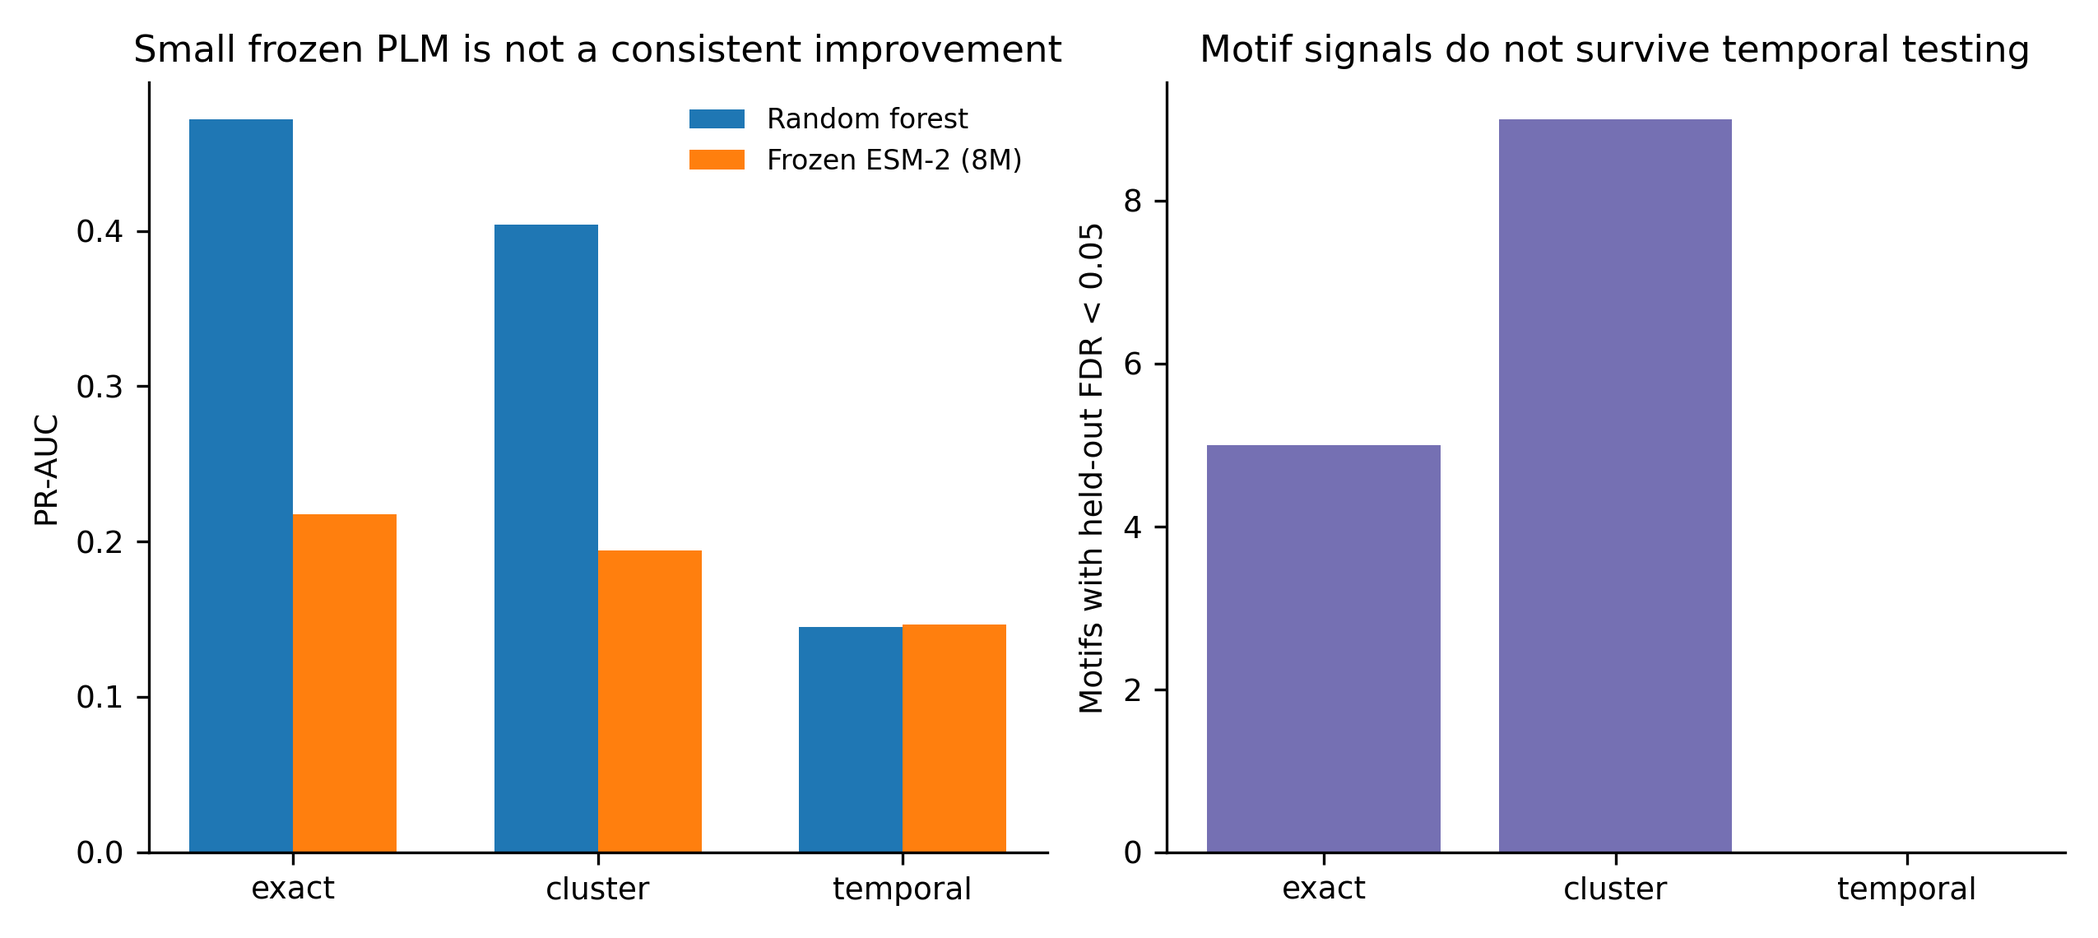
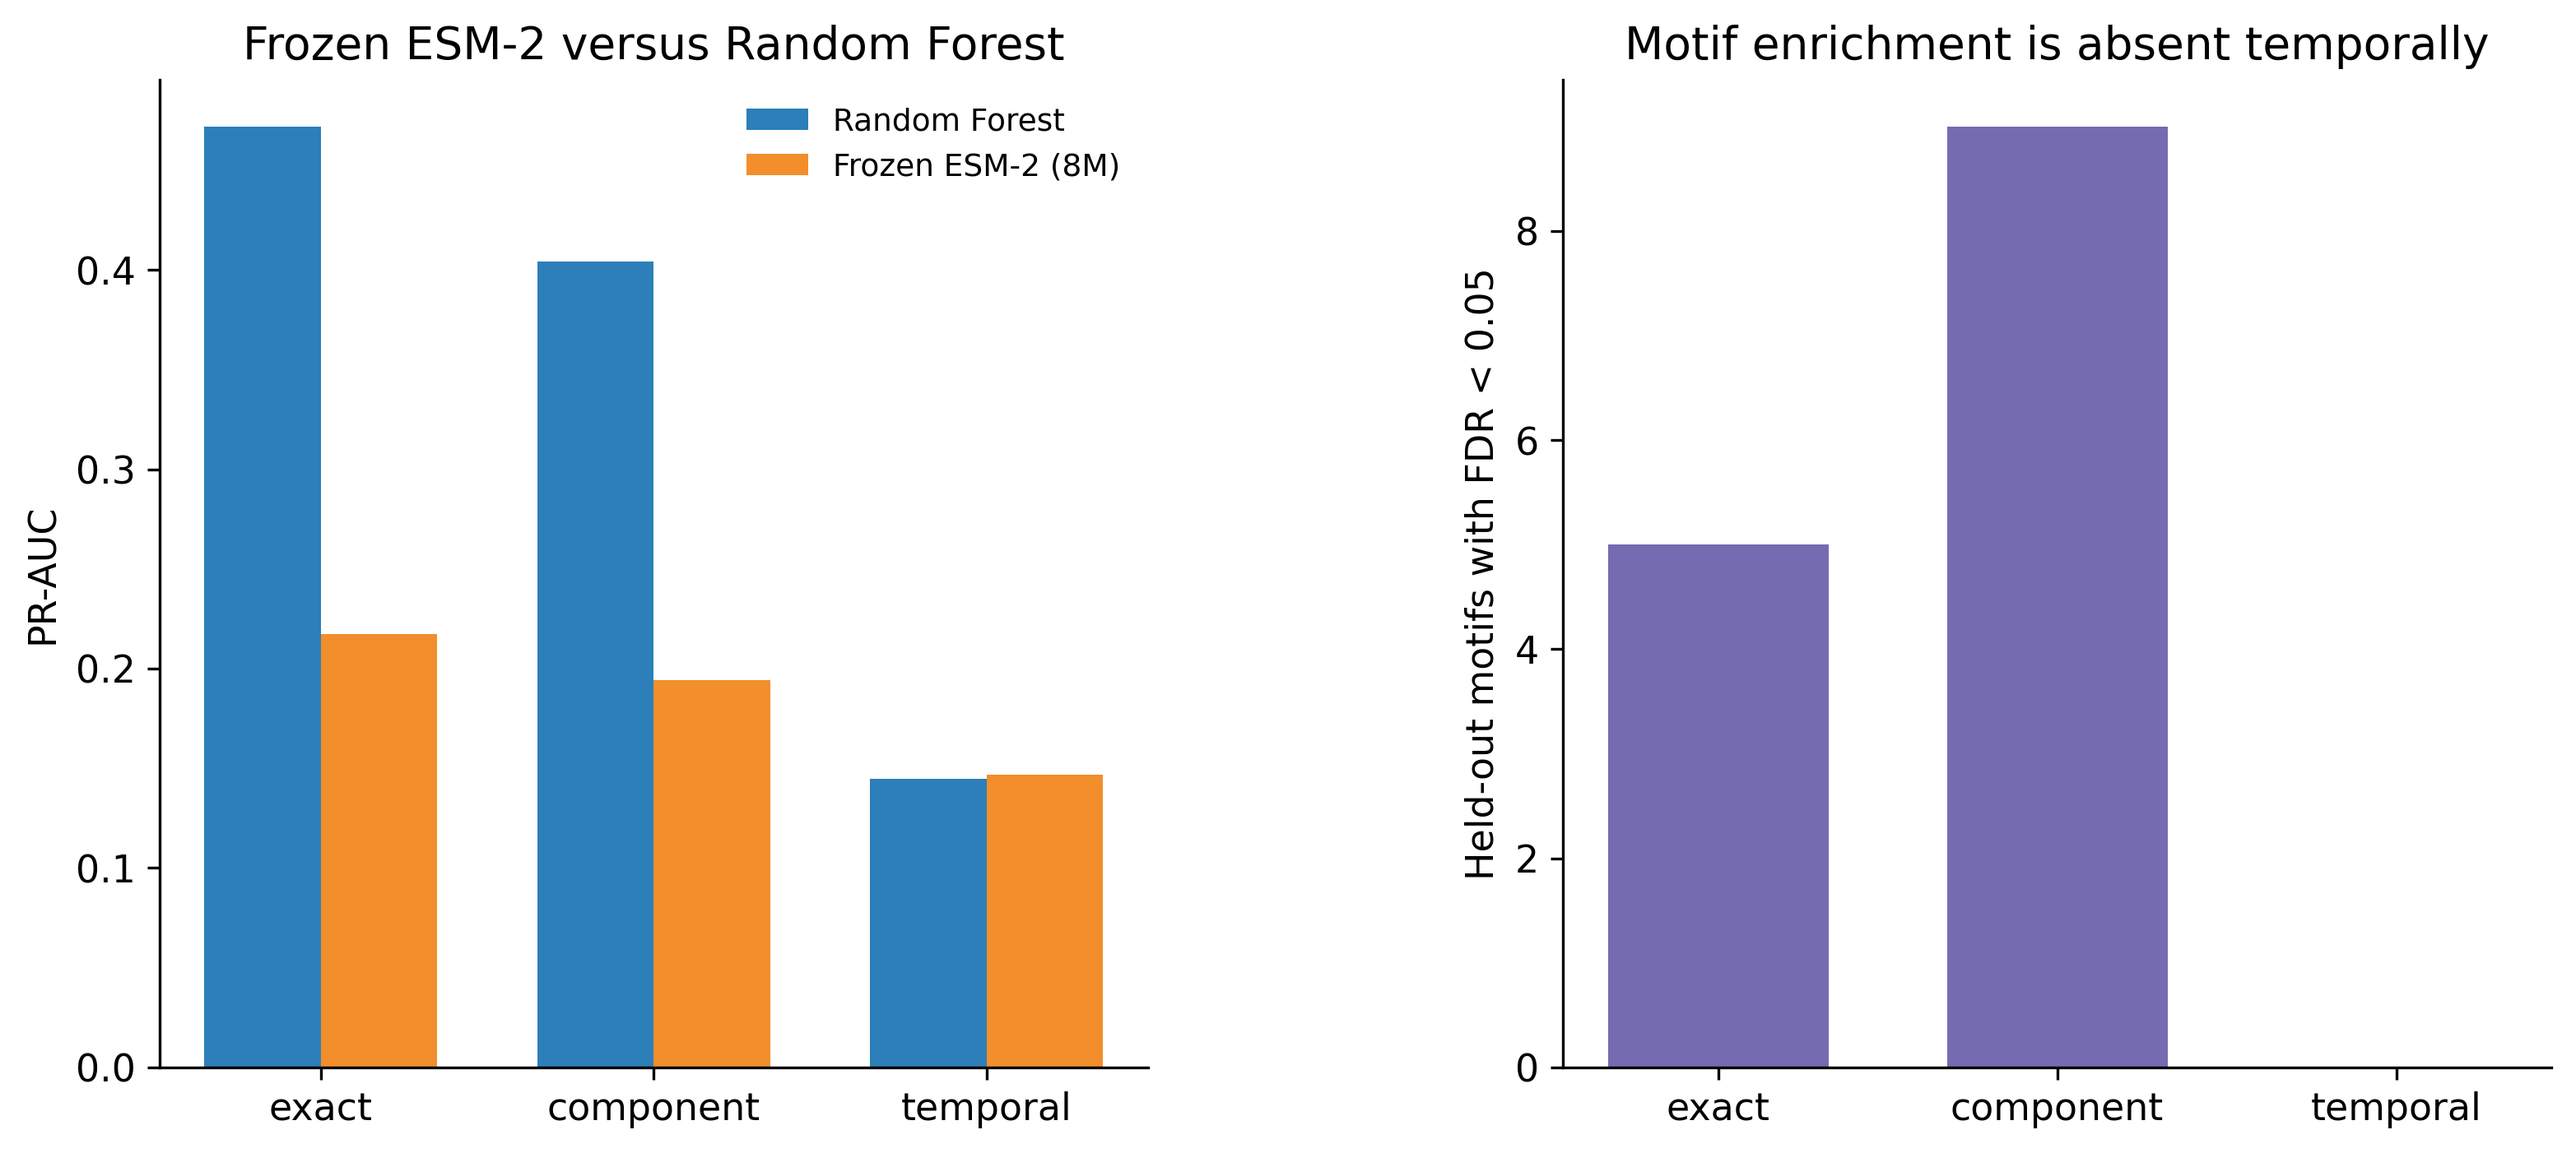
Finalize v5 submission graphics and quality review

diff --git a/revision/scripts/16_rebuild_submission_graphics.py b/revision/scripts/16_rebuild_submission_graphics.py
@@ -1,0 +1,74 @@
+from pathlib import Path
+
+import matplotlib.pyplot as plt
+import numpy as np
+import pandas as pd
+from matplotlib.patches import FancyBboxPatch
+
+ROOT = Path(__file__).resolve().parents[1]
+TABLES = ROOT / "results" / "publication" / "tables"
+FIGURES = ROOT / "results" / "publication" / "figures"
+SUBMISSION = FIGURES
+FIGURES.mkdir(parents=True, exist_ok=True)
+SUBMISSION.mkdir(parents=True, exist_ok=True)
+
+plt.rcParams.update({"font.family": "DejaVu Sans", "font.size": 11})
+
+# Corrected Figure 4: the classical comparator is explicitly Random Forest.
+esm = pd.read_csv(TABLES / "table_05_esm2_comparison.csv").set_index("split").loc[["exact", "cluster", "temporal"]]
+motif = pd.read_csv(TABLES / "table_05b_motif_summary.csv").set_index("split").loc[["exact", "cluster", "temporal"]]
+x = np.arange(3)
+fig, axs = plt.subplots(1, 2, figsize=(12.5, 5.2), gridspec_kw={"wspace": 0.42})
+w = 0.35
+axs[0].bar(x - w / 2, esm["rf_pr_auc"], w, label="Random Forest", color="#2C7FB8")
+axs[0].bar(x + w / 2, esm["esm2_frozen_pr_auc"], w, label="Frozen ESM-2 (8M)", color="#F28E2B")
+axs[0].set_xticks(x, ["exact", "component", "temporal"])
+axs[0].set_ylabel("PR-AUC")
+axs[0].set_title("Frozen ESM-2 versus Random Forest")
+axs[0].legend(frameon=False, fontsize=9)
+axs[0].spines[["top", "right"]].set_visible(False)
+axs[1].bar(x, motif["heldout_fdr_below_0_05"], color="#756BB1", width=0.65)
+axs[1].set_xticks(x, ["exact", "component", "temporal"])
+axs[1].set_ylabel("Held-out motifs with FDR < 0.05")
+axs[1].set_title("Motif enrichment is absent temporally")
+axs[1].spines[["top", "right"]].set_visible(False)
+fig.savefig(FIGURES / "figure_04_esm2_motifs.png", dpi=300, bbox_inches="tight")
+fig.savefig(SUBMISSION / "figure_04_esm2_motifs.png", dpi=300, bbox_inches="tight")
+plt.close(fig)
+
+# Text-exact graphical abstract built as a native scientific diagram.
+fig, ax = plt.subplots(figsize=(16, 9))
+ax.set_xlim(0, 16); ax.set_ylim(0, 9); ax.axis("off")
+ax.text(8, 8.35, "Leakage-aware benchmarking of viral T-cell IFN-gamma assay outcomes",
+        ha="center", va="center", fontsize=23, fontweight="bold", color="#173F5F")
+
+def box(x0, y0, width, height, title, body, color):
+    patch = FancyBboxPatch((x0, y0), width, height, boxstyle="round,pad=0.03,rounding_size=0.18",
+                           linewidth=1.4, edgecolor="#34495E", facecolor=color)
+    ax.add_patch(patch)
+    ax.text(x0 + 0.28, y0 + height - 0.30, title, ha="left", va="top", fontsize=14.5, fontweight="bold")
+    ax.text(x0 + 0.28, y0 + height - 0.94, body, ha="left", va="top", fontsize=10.7, linespacing=1.30)
+
+box(0.65, 4.75, 7.05, 2.45, "1  Recovered IEDB analysis state",
+    "31,502 assay records; 17,336 unique peptides\n"
+    "Original 161-column export unavailable\n"
+    "Analysis begins from recovered curated tables", "#DCEAF7")
+box(8.30, 4.75, 7.05, 2.45, "2  Leakage-aware sequence benchmark",
+    "9,668 valid high-confidence peptides; 9.2% positive\n"
+    "PR-AUC: 0.479 exact | 0.404 component | 0.151 temporal\n"
+    "Validation design strongly changes apparent performance", "#E4F2DE")
+box(0.65, 1.55, 7.05, 2.45, "3  Separate peptide-context task",
+    "20,785 peptide-context rows\n"
+    "Safe-context uplift: +0.236 exact | +0.254 component\n"
+    "+0.047 temporal; persisted across three label constructions", "#FFF0C9")
+box(8.30, 1.55, 7.05, 2.45, "4  Cautious interpretation",
+    "Context associations are not causal; task PR-AUCs are not comparable\n"
+    "No external dataset; temporal test not component-purged\n"
+    "Small frozen ESM-2; missing raw export and HLA restriction\n"
+    "Independent experimental validation is required", "#E9DFF2")
+ax.annotate("", xy=(8.18, 5.97), xytext=(7.82, 5.97), arrowprops=dict(arrowstyle="-|>", lw=2, color="#173F5F"))
+ax.annotate("", xy=(8.18, 2.77), xytext=(7.82, 2.77), arrowprops=dict(arrowstyle="-|>", lw=2, color="#173F5F"))
+fig.savefig(SUBMISSION / "graphical_abstract_v5.png", dpi=200, bbox_inches="tight", facecolor="white")
+plt.close(fig)
+
+print("Wrote corrected Figure 4 and graphical abstract")

diff --git a/revision/governance/QUALITY_REVIEW_V5_RELEASE_2026-08-10.md b/revision/governance/QUALITY_REVIEW_V5_RELEASE_2026-08-10.md
@@ -1,0 +1,39 @@
+# Quality review — v5 release (2026-08-10)
+
+## Release decision
+
+The v5 revision package is internally consistent and suitable for author review before journal resubmission. The rerun supports a leakage-aware internal benchmark, not a clinical, causal, or externally validated predictor.
+
+## Checks completed
+
+- The clean manuscript contains no revision markup; the tracked copy retains cumulative insertions and deletions relative to the submitted manuscript.
+- All 29 bibliography entries are cited and no undefined numerical citations remain.
+- Obsolete submitted headline claims (9.3-fold enrichment and PR-AUC 0.534 to 0.756) were removed from the manuscript and submission documents.
+- Exact peptide-disjoint, edit-distance <=2 component-disjoint, and temporal peptide-disjoint designs are distinguished consistently.
+- Model tuning, one-hot handling, grouped bootstrap uncertainty, calibration, frozen ESM-2 scope, and Random Forest Figure 4 comparator are described explicitly.
+- The context sensitivity analysis compares majority labels, exclusion of 662 ties, and consistent-label-only rows.
+- Outcome-derived evidence variables are excluded from principal context models. Retained evidence rows are explicitly labelled retrospective bias diagnostics, not deployable models.
+- The manuscript, response, highlights, cover letter, title page, figures, graphical abstract, and eight-sheet supplementary workbook were rendered or inspected for layout.
+
+## Interpretation supported by the rerun
+
+- Sequence ranking performance depends strongly on the evaluation design: best PR-AUC was 0.479 exact, 0.404 component-disjoint, and 0.151 temporal.
+- Safe context variables were associated with positive peptide-context outcomes across three label constructions, but temporal uplift was smaller.
+- The small frozen ESM-2 baseline did not outperform the strongest classical sequence model under the frozen tests.
+- Motif analysis is exploratory and cannot be interpreted as HLA-anchor validation.
+
+## Limitations retained
+
+- No independent external dataset.
+- Only one frozen outer test set per design; grouped bootstrap intervals are conditional on those test sets.
+- One three-fold grouped CV run, modest hyperparameter grids, and one seed; downstream context and ESM-2 classifiers were fixed.
+- Temporal tests are peptide-disjoint but not simultaneously edit-distance-component-purged.
+- Edit distance <=2 addresses one/two substitutions but is not CD-HIT percentage-identity clustering.
+- The ESM-2 experiment uses a small frozen model, not fine-tuning or a comprehensive PLM benchmark.
+- The original raw 161-column IEDB export is unavailable, preventing reconstruction of upstream curation from the original download.
+- Reliable HLA restriction is absent.
+- Efficiency records omit peak memory and complete stacked inference/serialized size.
+
+## Remaining author action
+
+Read the tracked manuscript and response once for preferred tone, then replace the repository URL with a DOI/accession if an archival release is created before resubmission.
